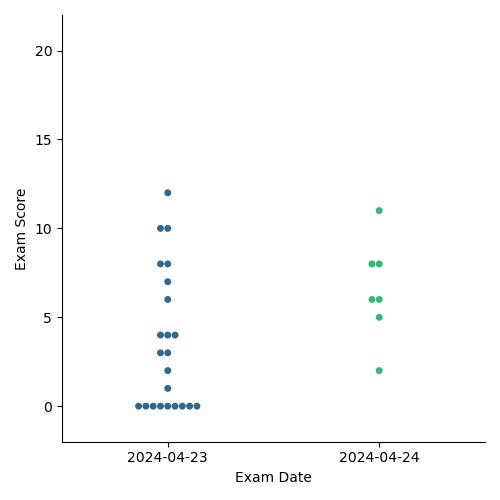
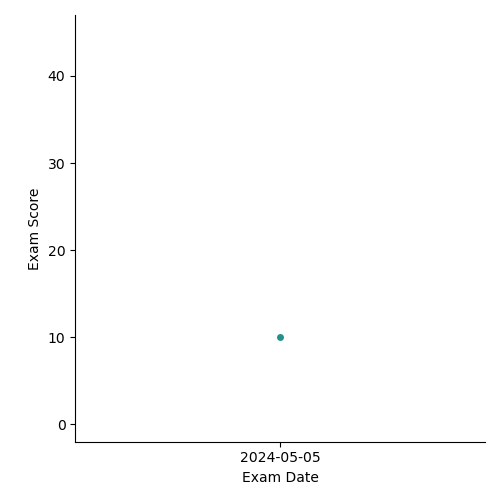
New Comments, Plot until 40, Cleaning code

diff --git a/DMV/controller/views.py b/DMV/controller/views.py
@@ -9,6 +9,8 @@ import matplotlib.pyplot as plt
 import matplotlib
 import seaborn as sns
 from flask import current_app, after_this_request
+import json
+from flask import flash
 
 #creating blueprint for views
 views = Blueprint("views",__name__)
@@ -52,20 +54,9 @@ def update_profile():
     return redirect(url_for('views.profile'))
 
 
-import json
 
-from flask import flash
 
-@views.route('/tester', methods=["POST", "GET"])
-def test():
-    if request.method == "GET":
-        return render_template("test.html", user=current_user)
-    else:
-        result = request.form.get("result")
-        people_json = request.form.get("people")  # Get the JSON string from the form
-        people = json.loads(people_json)  # Parse the JSON string to get the list of people
-        print(people)
-        return render_template("tester1.html", user=current_user, result = result)
+
 
 # Route to the sequential practice page
 @views.route('/take-practice', methods=["POST", "GET"])
@@ -251,7 +242,7 @@ def score_history():
             scatter.set(ylim=(-2, 22))
         else:
             #creating plot from dummy data
-            sns.catplot(data=practice_data, x='Practice Date', y='Practice Score', kind='point', color='b', alpha=0)
+            sns.catplot(data=practice_data, x='Practice Date', y='Practice Score', kind='swarm', color='b', alpha=0)
 
 
         # Ensure the 'static' directory exists
@@ -285,10 +276,10 @@ def score_history():
         if exam_scores:
             #creating plot from data
             scatter = sns.catplot(data=exam_data, kind = "swarm", x='Exam Date', y='Exam Score', hue='Exam Date', palette='viridis')
-            scatter.set(ylim=(-2, 22))
+            scatter.set(ylim=(-2, 47))
         else:
             #creating plot from dummy data
-            sns.catplot(data=exam_data, x='Exam Date', y='Exam Score', kind='point', color='b', alpha=0)
+            sns.catplot(data=exam_data, x='Exam Date', y='Exam Score', kind='swarm', color='b', alpha=0)
         
         # Save the exam plot as an image file with full path
         exam_plot_path = os.path.join(static_dir, 'exam_plot.png')
@@ -410,7 +401,7 @@ def randomize_questions():
 
     # Collecting 10 questions from each collections
     questions_from_set1 = collect_questions(practice_files1, 10, directory)
-    questions_from_set2 = collect_questions(practice_files2, 10, directory)
+    questions_from_set2 = collect_questions(practice_files2, 35, directory)
 
     # Combining both collections
     all_questions = questions_from_set1 + questions_from_set2
